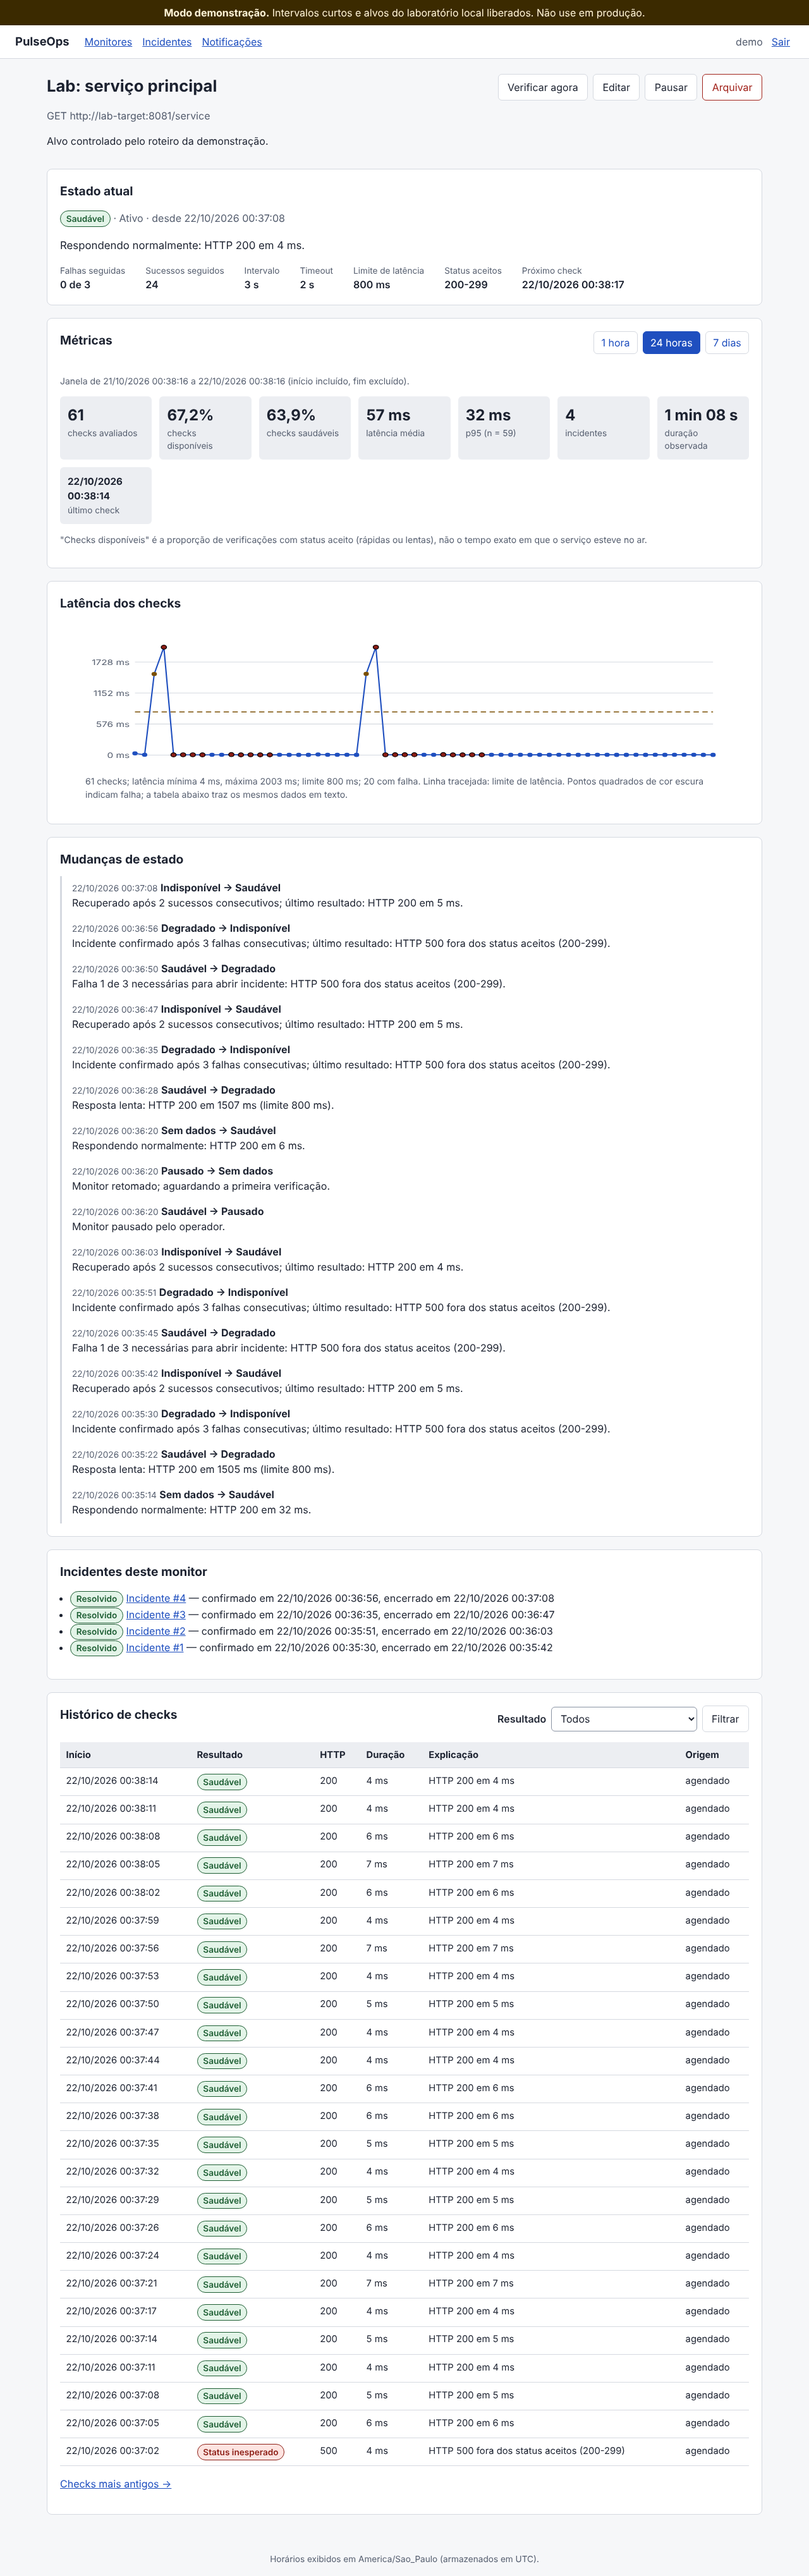
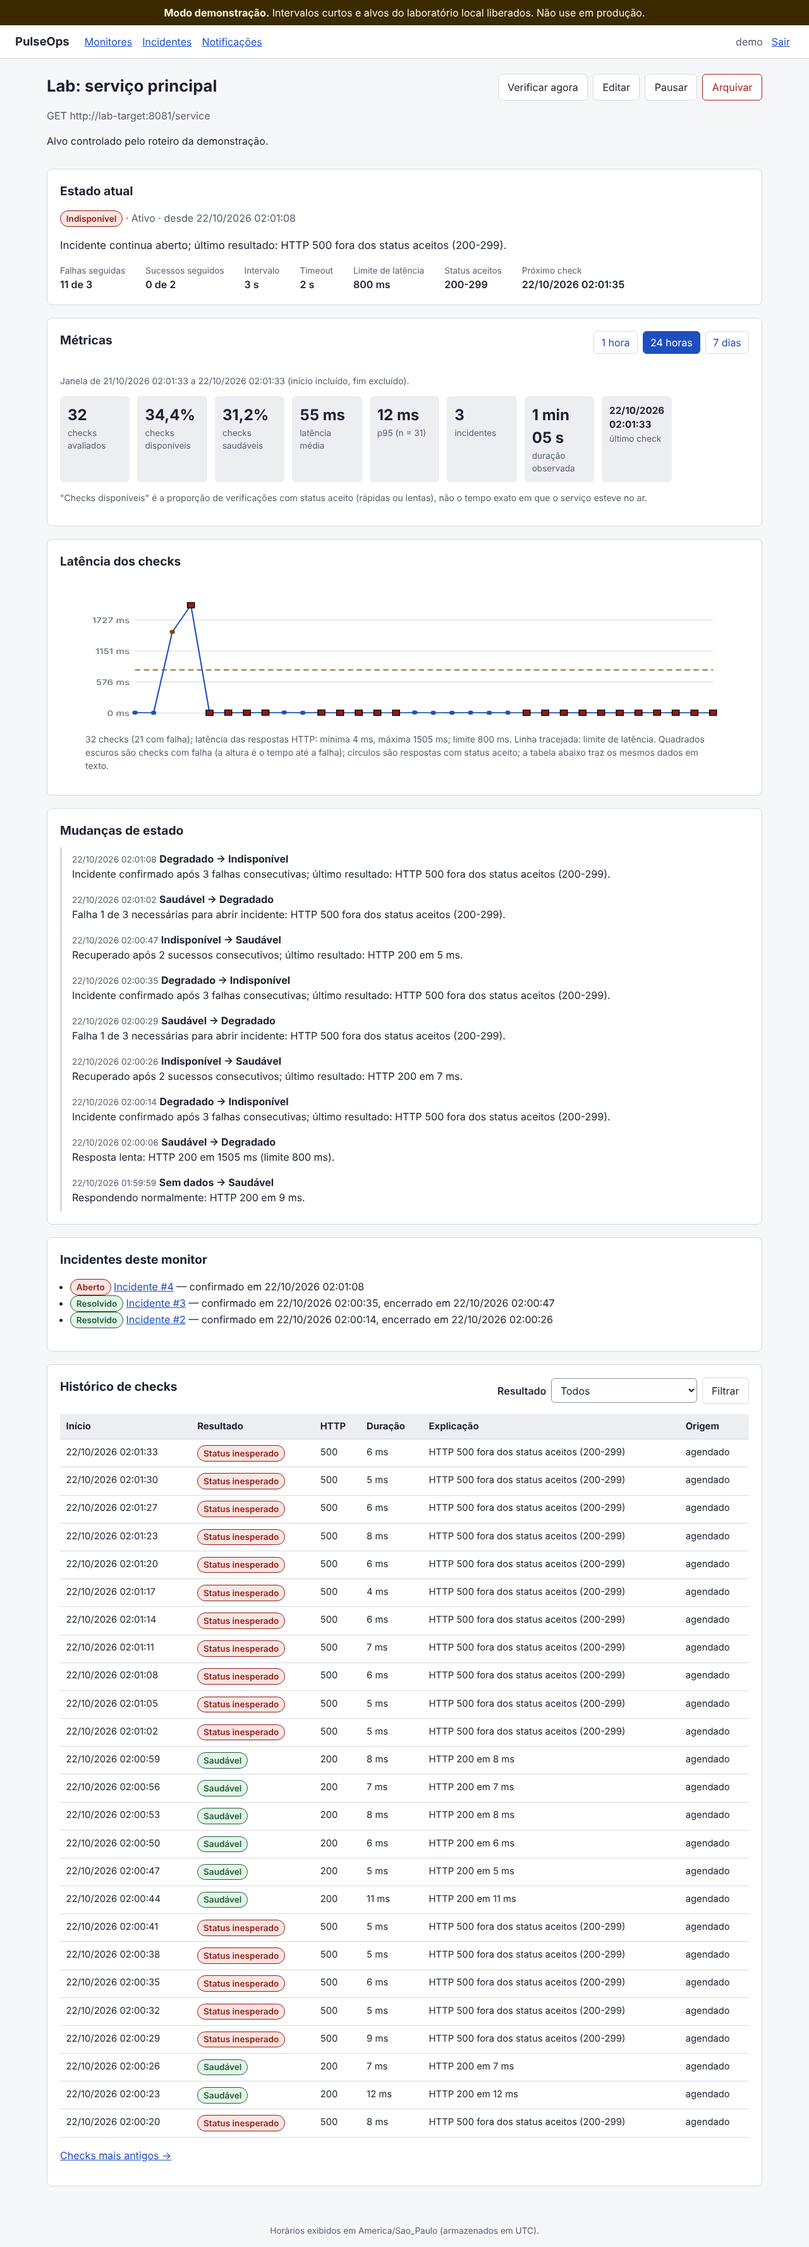
docs: capturas de tela refeitas com a legenda nova do gráfico
Claude-Session: https://claude.ai/code/session_01AKvxk1FXRKWWkCjZ5pFShX

diff --git a/README.md b/README.md
@@ -8,7 +8,7 @@ decisão e entrega alertas por webhook sem travar as verificações.
 Projeto pessoal de estudo, construído em Python com FastAPI, PostgreSQL e um
 worker assíncrono separado.
 
-![Painel do PulseOps com um monitor indisponível e um saudável](docs/imagens/painel.png)
+![Painel do PulseOps durante a demonstração: dois monitores indisponíveis e um saudável](docs/imagens/painel.png)
 
 *Captura real do painel durante o laboratório de falhas: o serviço principal está
 com incidente aberto depois de três respostas HTTP 500 seguidas.*
